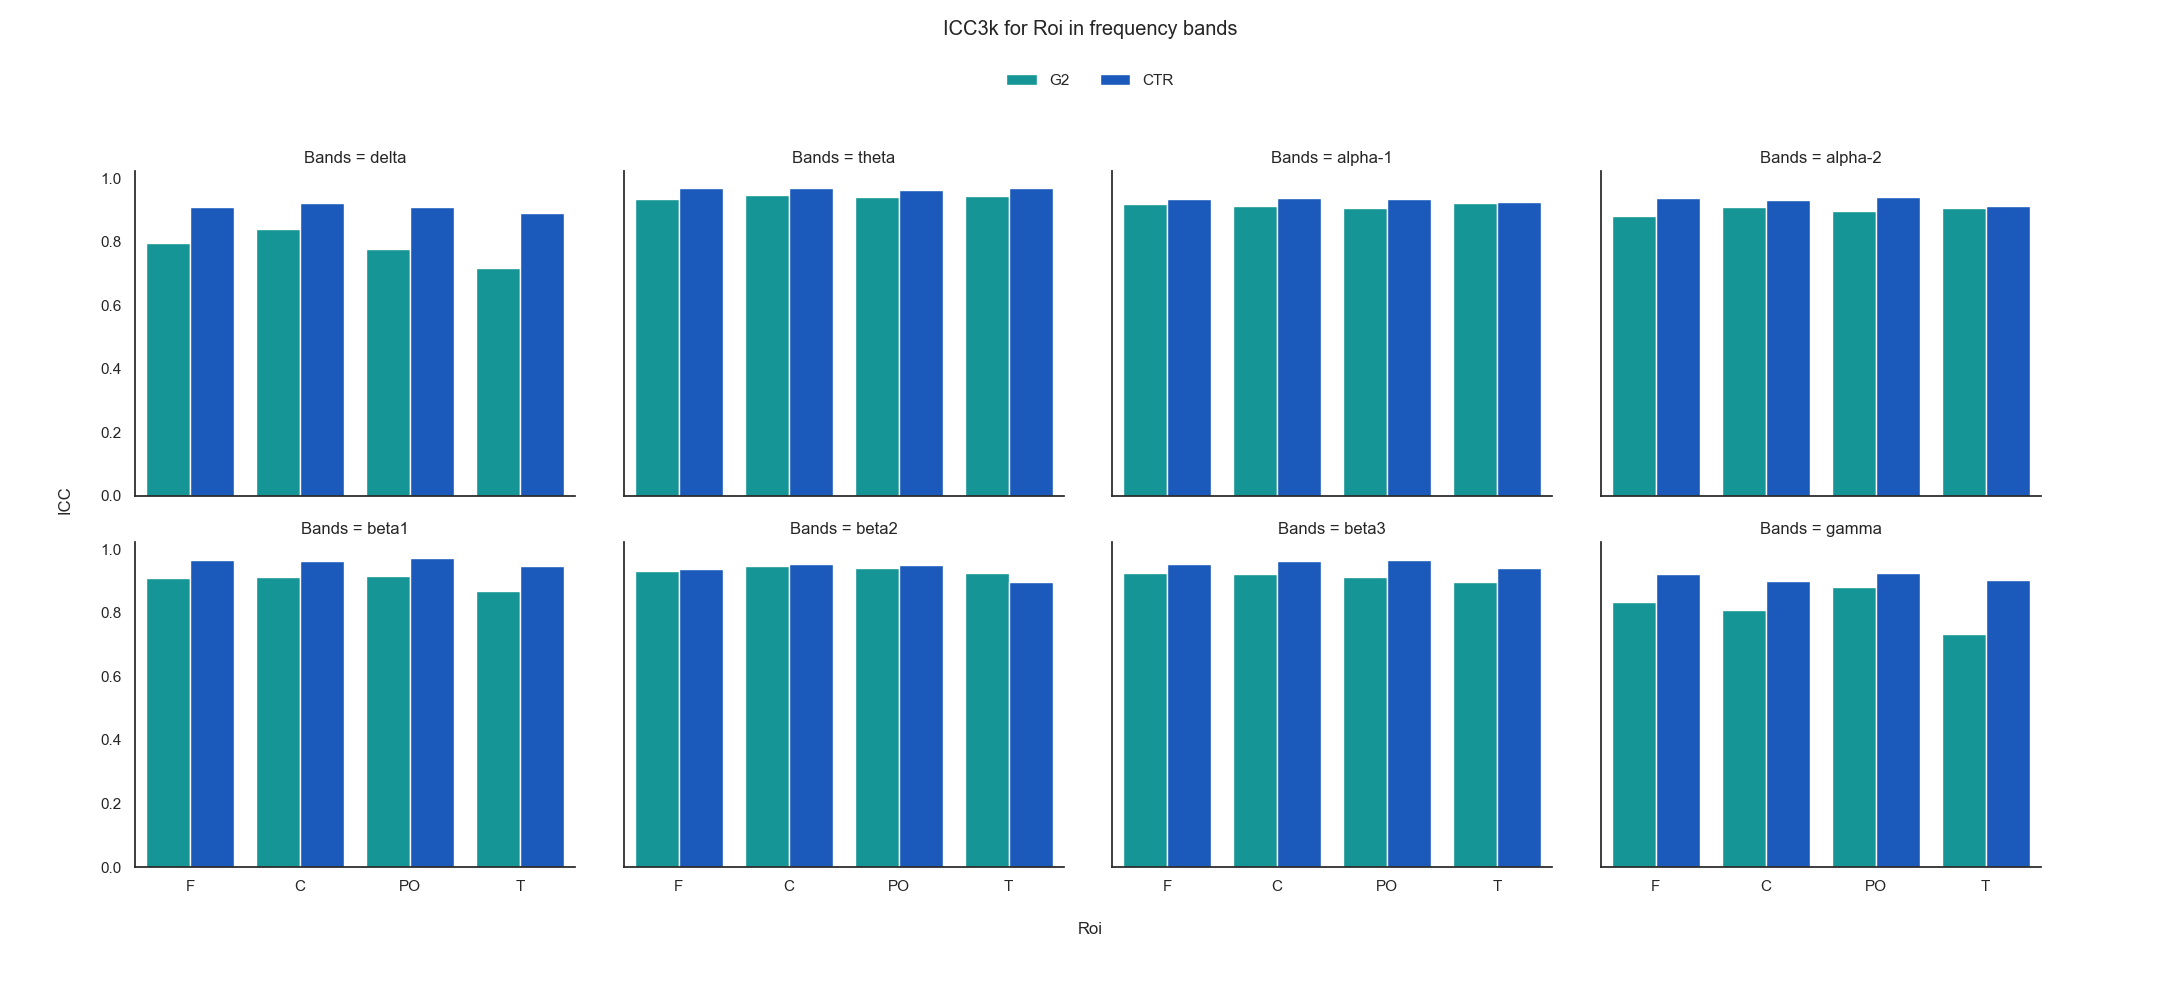
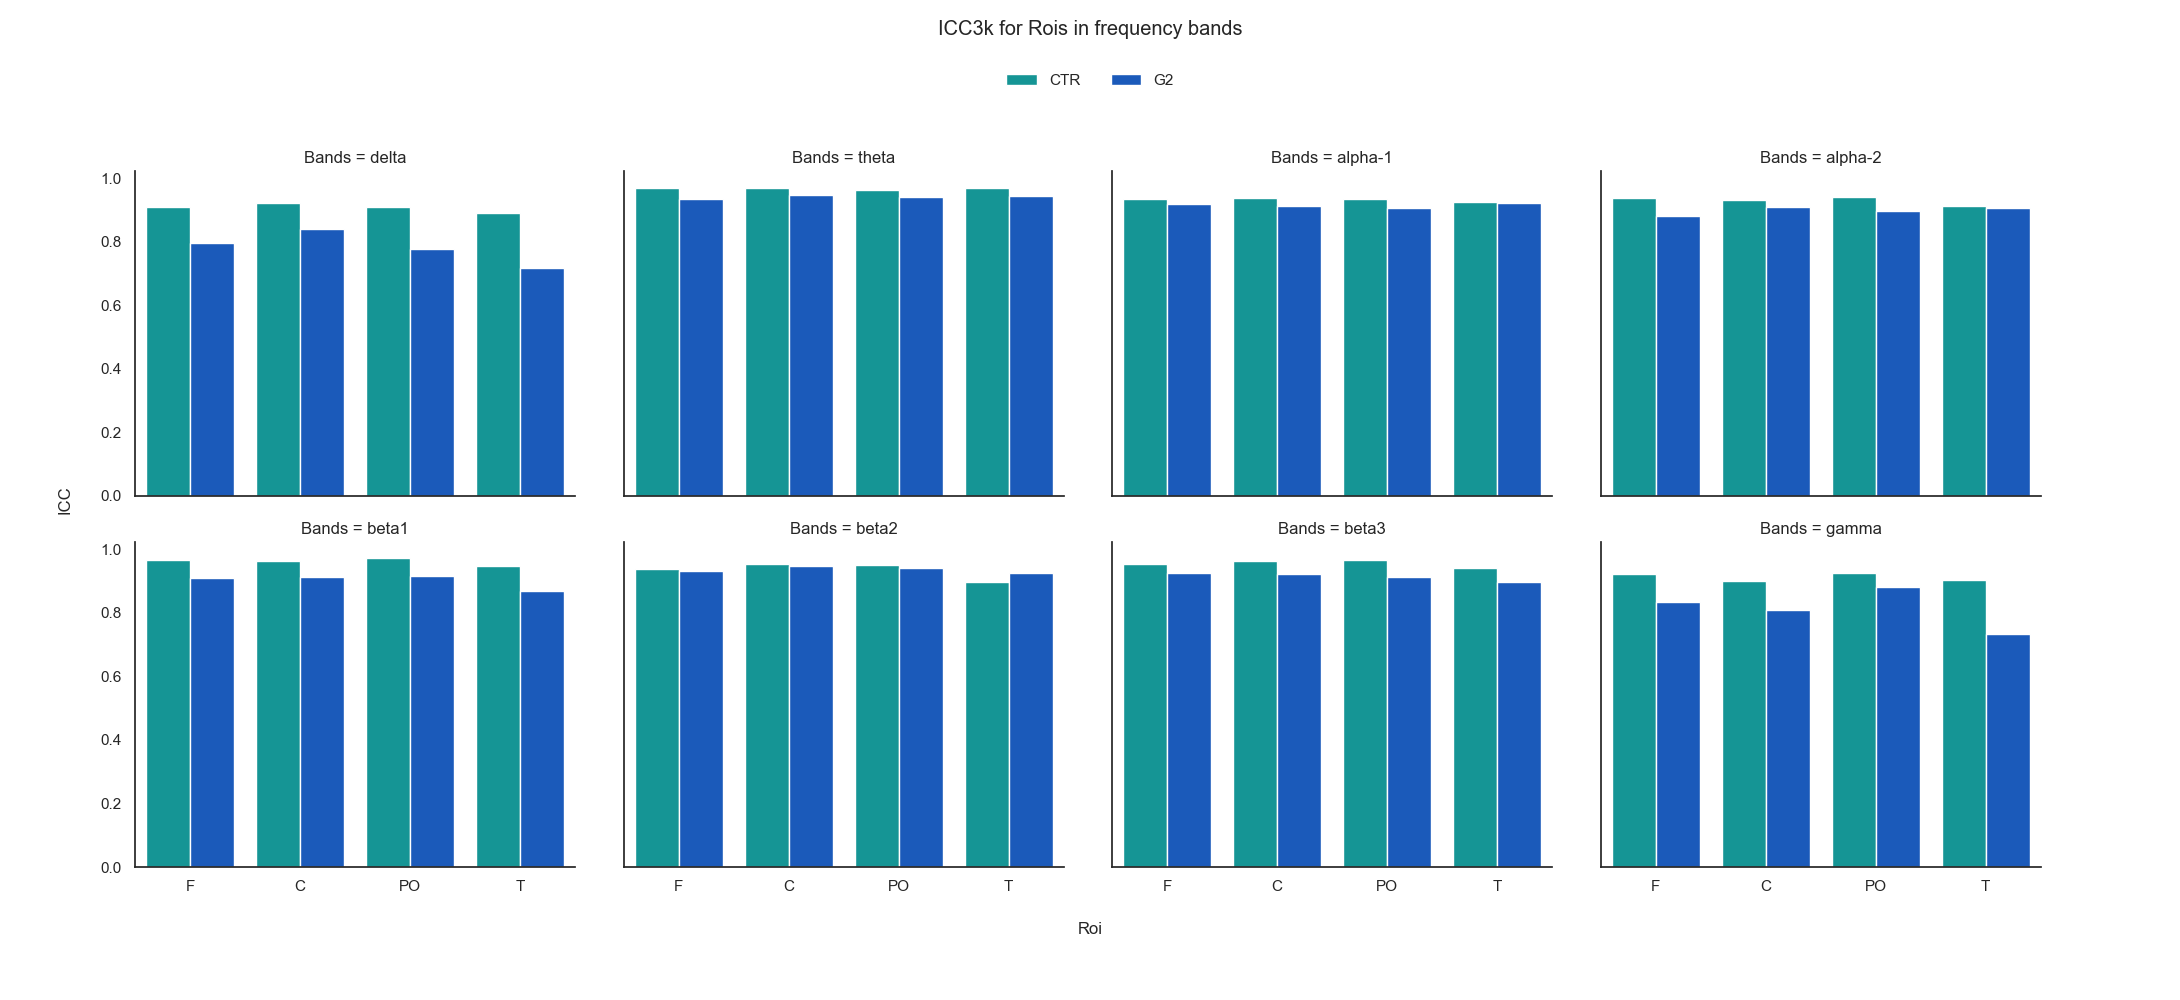
Actualizacion de graficos ICC y test de diferencia entre grupos evaluado por cada banda de frecuencia

diff --git a/Reproducibilidad/ICC_graphic.py b/Reproducibilidad/ICC_graphic.py
@@ -23,11 +23,11 @@ def barplot_icc_nB_1G(icc_data,x_value,group,plot=False,save=False):
     if plot:
         plt.show()
 
-def barplot_icc_comp_nG(icc_data,x_value,plot=False,save=False):
+def barplot_icc_comp_nG(icc_data,x_value,title,plot=False,save=False):
     sns.set(font_scale = 0.9)
     sns.set_theme(style="white")
     ax=sns.catplot(x=x_value,y='ICC',data=icc_data,hue='Group',palette='winter_r',kind='bar',col='Bands',col_wrap=4,legend=False)
-    ax.fig.suptitle('ICC3k for '+ x_value +' in frequency bands')
+    ax.fig.suptitle(title)
     ax.add_legend(loc='upper center',bbox_to_anchor=(.5,0.94),ncol=2)
     ax.fig.subplots_adjust(top=0.829,bottom=0.133, right=0.936,left=0.062, hspace=0.143, wspace=0.11) # adjust the Figure in rp
     ax.set(xlabel=None)
@@ -40,11 +40,11 @@ def barplot_icc_comp_nG(icc_data,x_value,plot=False,save=False):
     if plot:
         plt.show()
 
-def barplot_icc_bandsx(icc_data,x_value,plot=False,save=False):
+def barplot_icc_bandsx(icc_data,x_value, title,plot=False,save=False):
     sns.set(font_scale = 0.9)
     sns.set_theme(style="white")
     ax=sns.catplot(x='Bands',y='ICC',data=icc_data,hue='Group',palette='winter_r',kind='bar',legend=False)
-    ax.fig.suptitle('ICC3k for '+ x_value +' in frequency bands')
+    ax.fig.suptitle(title)
     ax.add_legend(loc='upper center',bbox_to_anchor=(.5,0.94),ncol=2, title='Group')
     ax.fig.subplots_adjust(top=0.829,bottom=0.168, right=0.950,left=0.107, hspace=0.143, wspace=0.11) # adjust the Figure in rp
     ax.set(xlabel=None)
@@ -59,11 +59,11 @@ def barplot_icc_bandsx(icc_data,x_value,plot=False,save=False):
   
     
 
-barplot_icc_comp_nG(icc_data_Roi[icc_data_Roi['Stage']=='Normalized data'],'Roi',plot=True,save=True)
-barplot_icc_comp_nG(icc_data_Comp[icc_data_Comp['Stage']=='Normalized data'],'Components',plot=True,save=True)
+barplot_icc_comp_nG(icc_data_Roi[icc_data_Roi['Stage']=='Normalized data'],'Roi','ICC3k for Rois in frequency bands',plot=True,save=True)
+barplot_icc_comp_nG(icc_data_Comp[icc_data_Comp['Stage']=='Normalized data'],'Components','ICC3k for IC in frequency bands', plot=True,save=True)
 
-barplot_icc_bandsx(icc_data_Roi[icc_data_Roi['Stage']=='Normalized data'],'Roi',plot=True,save=True)
-barplot_icc_bandsx(icc_data_Comp[icc_data_Comp['Stage']=='Normalized data'],'Components',plot=True,save=True)
+barplot_icc_bandsx(icc_data_Roi[icc_data_Roi['Stage']=='Normalized data'],'Roi','ICC3k for ROIs in frequency bands',plot=True,save=True)
+barplot_icc_bandsx(icc_data_Comp[icc_data_Comp['Stage']=='Normalized data'],'Components','ICC3k for IC in frequency bands',plot=True,save=True)
 
 barplot_icc_nB_1G(icc_data_Roi,'Roi','G2',plot=True,save=True)
 barplot_icc_nB_1G(icc_data_Roi,'Roi','CTR',plot=True,save=True)

diff --git a/Reproducibilidad/ICC_ROIS_CTR-G2.py b/Reproducibilidad/ICC_ROIS_CTR-G2.py
@@ -7,9 +7,11 @@ import pandas as pd
 import collections
 import scipy.io
 import pingouin as pg
+import warnings
+warnings.filterwarnings("ignore")
 
-datos1=pd.read_feather(r"sovaharmony\Reproducibilidad\Data_csv_Powers_Componentes-Channels\longitudinal_data_powers_long_CE_channels.feather") 
-datos2=pd.read_feather(r"sovaharmony\Reproducibilidad\Data_csv_Powers_Componentes-Channels\longitudinal_data_powers_long_CE_norm_channels.feather")
+datos1=pd.read_feather(r"Reproducibilidad\Data_csv_Powers_Componentes-Channels\longitudinal_data_powers_long_CE_channels.feather") 
+datos2=pd.read_feather(r"Reproducibilidad\Data_csv_Powers_Componentes-Channels\longitudinal_data_powers_long_CE_norm_channels.feather")
 datos=pd.concat((datos1,datos2))
 
 def add_ROIS_filter_data(data,groups,rois,rois_labels):
@@ -64,7 +66,7 @@ bandas=datos['Bands'].unique()
 Stage=datos['Stage'].unique()
 
 icc_value = pd.DataFrame(columns=['Description','ICC','F','df1','df2','pval','CI95%'])
-G=['G2','CTR']
+G=['CTR','G2']
 for st in Stage:
     d_stage=datos[datos['Stage']==st] 
     for g in G:
@@ -108,5 +110,5 @@ for st in Stage:
         icc_value.append(icc_value)
     icc_value.append(icc_value)
 #print(icc_value)
-icc_value.to_csv(r'sovaharmony\Reproducibilidad\ICC_values_csv\icc_values_ROIS_G2-CTR.csv',sep=';')
+icc_value.to_csv(r'Reproducibilidad\ICC_values_csv\icc_values_ROIS_G2-CTR.csv',sep=';')
 

diff --git a/Reproducibilidad/Statistical_analysis.py b/Reproducibilidad/Statistical_analysis.py
@@ -31,13 +31,20 @@ def normality_N_groups_Shapiro(data,dv,group,method='shapiro'):
 
 icc_data_Roi=pd.read_csv(r'C:\Users\valec\Documents\JI\Codigos\Data_analysis_ML_Harmonization_Proyect\Reproducibilidad\ICC_values_csv\icc_values_ROIS_G2-CTR.csv',sep=';')
 icc_data_Comp=pd.read_csv(r'C:\Users\valec\Documents\JI\Codigos\Data_analysis_ML_Harmonization_Proyect\Reproducibilidad\ICC_values_csv\icc_values_Components_G2-CTR.csv',sep=';')
-
 icc_data_Roi=icc_data_Roi[icc_data_Roi['Stage']=='Normalized data']
-cc_data_Comp=icc_data_Comp[icc_data_Comp['Stage']=='Normalized data']
+icc_data_Comp=icc_data_Comp[icc_data_Comp['Stage']=='Normalized data']
 
 graphic_normality_box(icc_data_Roi,'Group','ICC','ICC por grupos y Rois')
 graphic_normality_box(icc_data_Comp,'Group','ICC','ICC por grupos y Componentes')
 
 ##Como anova diferencias entre grupos pero no parametrica
-print(pg.pairwise_gameshowell(data=icc_data_Comp, dv='ICC', between='Group'))
-print(pg.pairwise_gameshowell(data=icc_data_Roi, dv='ICC', between='Group'))
+bands=icc_data_Comp['Bands'].unique()
+print('Componentes')
+for i in bands:
+    print(i)
+    print(pg.pairwise_gameshowell(data=icc_data_Comp[icc_data_Comp['Bands']==i], dv='ICC', between='Group'))
+
+print('\nRois')
+for i in bands:
+    print(i)
+    print(pg.pairwise_gameshowell(data=icc_data_Roi[icc_data_Roi['Bands']==i], dv='ICC', between='Group'))

diff --git a/Reproducibilidad/ICC_Components_CTR-G2.py b/Reproducibilidad/ICC_Components_CTR-G2.py
@@ -11,8 +11,8 @@ import pingouin as pg
 from scipy import stats
 
 
-datos1=pd.read_feather(r"sovaharmony\Reproducibilidad\Data_csv_Powers_Componentes-Channels\longitudinal_data_powers_long_CE_components.feather") 
-datos2=pd.read_feather(r"sovaharmony\Reproducibilidad\Data_csv_Powers_Componentes-Channels\longitudinal_data_powers_long_CE_norm_components.feather")
+datos1=pd.read_feather(r"Reproducibilidad\Data_csv_Powers_Componentes-Channels\longitudinal_data_powers_long_CE_components.feather") 
+datos2=pd.read_feather(r"Reproducibilidad\Data_csv_Powers_Componentes-Channels\longitudinal_data_powers_long_CE_norm_components.feather")
 datos=pd.concat((datos1, datos2))#Original Data
 print(len(datos1))
 print(len(datos2))
@@ -110,5 +110,5 @@ for st in Stage:
         icc_value.append(icc_value)
     icc_value.append(icc_value)
 #print(icc_value)
-icc_value.to_csv(r'sovaharmony\Reproducibilidad\ICC_values_csv\icc_values_Components_G2-CTR.csv',sep=';')
+icc_value.to_csv(r'Reproducibilidad\ICC_values_csv\icc_values_Components_G2-CTR.csv',sep=';')
 #matrix_c.to_csv(r'sovaharmony\Reproducibilidad\icc_values_G2-CTR_test.csv',sep=';') 

diff --git a/Graficos Rois-Componentes de todas las DB/Pruebas_estadisticas.py b/Graficos Rois-Componentes de todas las DB/Pruebas_estadisticas.py
@@ -79,7 +79,7 @@ def normality_N_groups_Shapiro(data,dv,group):
 '''Anova'''
 #Therefore, it is recommended to use a Welch ANOVA instead, followed by Games-Howell post-hoc tests, 
 # which do not require the groups to have equal variances.
-# If d-value<0.05 we can reject the null hypothesis that the values analyzed are equal between the groups
+# If p-value<0.05 we can reject the null hypothesis that the values analyzed are equal between the groups
 
 #All grooups
 #pg.welch_anova(data=df, dv='name where are the values', between='groups to compare') 
